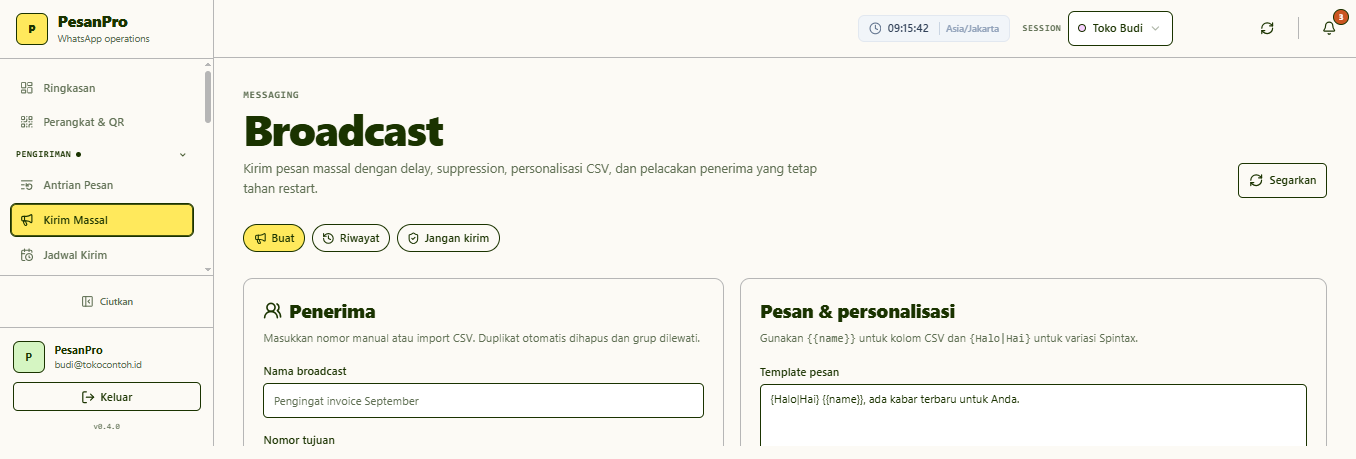
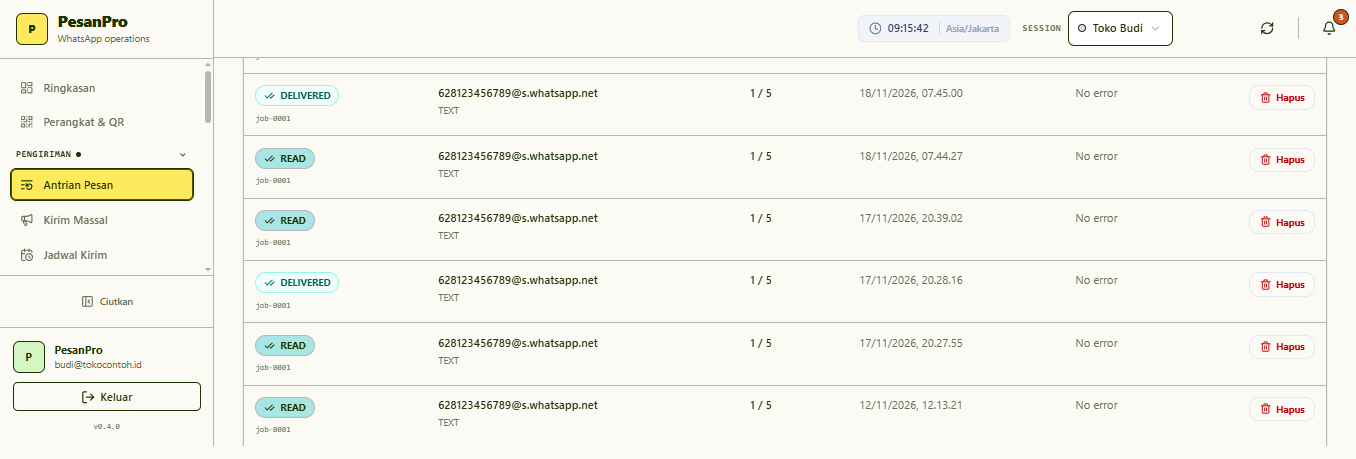
feat(landing): langkah 3 pakai screenshot Antrian Pesan
Menggantikan pemakaian halaman broadcast dua kali. Screenshot antrian
menampilkan status tiap pesan (SENT/DELIVERED/READ); nomor penerima di
dalamnya sudah dimask ke contoh sebelum gambar dirender.

diff --git a/docs/marketing/LP-PESANPRO-LONGCOPY-2026-11-23.html b/docs/marketing/LP-PESANPRO-LONGCOPY-2026-11-23.html
@@ -363,8 +363,8 @@
           <p class="small fw-semibold mb-3">Langkah 1: hubungkan perangkat WhatsApp</p>
           <img src="../../public/lp/langkah-atur.png" alt="Halaman Balasan Otomatis di dashboard PesanPro: satu aturan aktif dengan kata kunci dan teks jawaban" class="img-fluid rounded-3 mb-2" style="border:1px solid var(--pp-line)">
           <p class="small fw-semibold mb-3">Langkah 2: setel balasan otomatis sekali saja</p>
-          <img src="../../public/lp/langkah-kirim.png" alt="Halaman Broadcast di dashboard PesanPro: pilih penerima, tulis pesan, atur jeda antar pesan" class="img-fluid rounded-3 mb-2" style="border:1px solid var(--pp-line)">
-          <p class="small fw-semibold mb-0">Langkah 3: kirim massal dengan jeda yang aman</p>
+          <img src="../../public/lp/langkah-kirim.png" alt="Halaman Antrian Pesan di dashboard PesanPro: status tiap pesan dari terkirim sampai dibaca, dengan percobaan ulang otomatis" class="img-fluid rounded-3 mb-2" style="border:1px solid var(--pp-line)">
+          <p class="small fw-semibold mb-0">Langkah 3: kirim dan pantau sampai dibaca</p>
         </div>
       </div>
     </div>

diff --git a/src/app/page.tsx b/src/app/page.tsx
@@ -92,8 +92,8 @@ const alurLangkah = [
   },
   {
     src: '/lp/langkah-kirim.png',
-    caption: 'Langkah 3: kirim massal dengan jeda yang aman',
-    alt: 'Halaman Broadcast di dashboard PesanPro: pilih penerima, tulis pesan, atur jeda antar pesan',
+    caption: 'Langkah 3: kirim dan pantau sampai dibaca',
+    alt: 'Halaman Antrian Pesan di dashboard PesanPro: status tiap pesan dari terkirim sampai dibaca, dengan percobaan ulang otomatis',
   },
 ];
 
